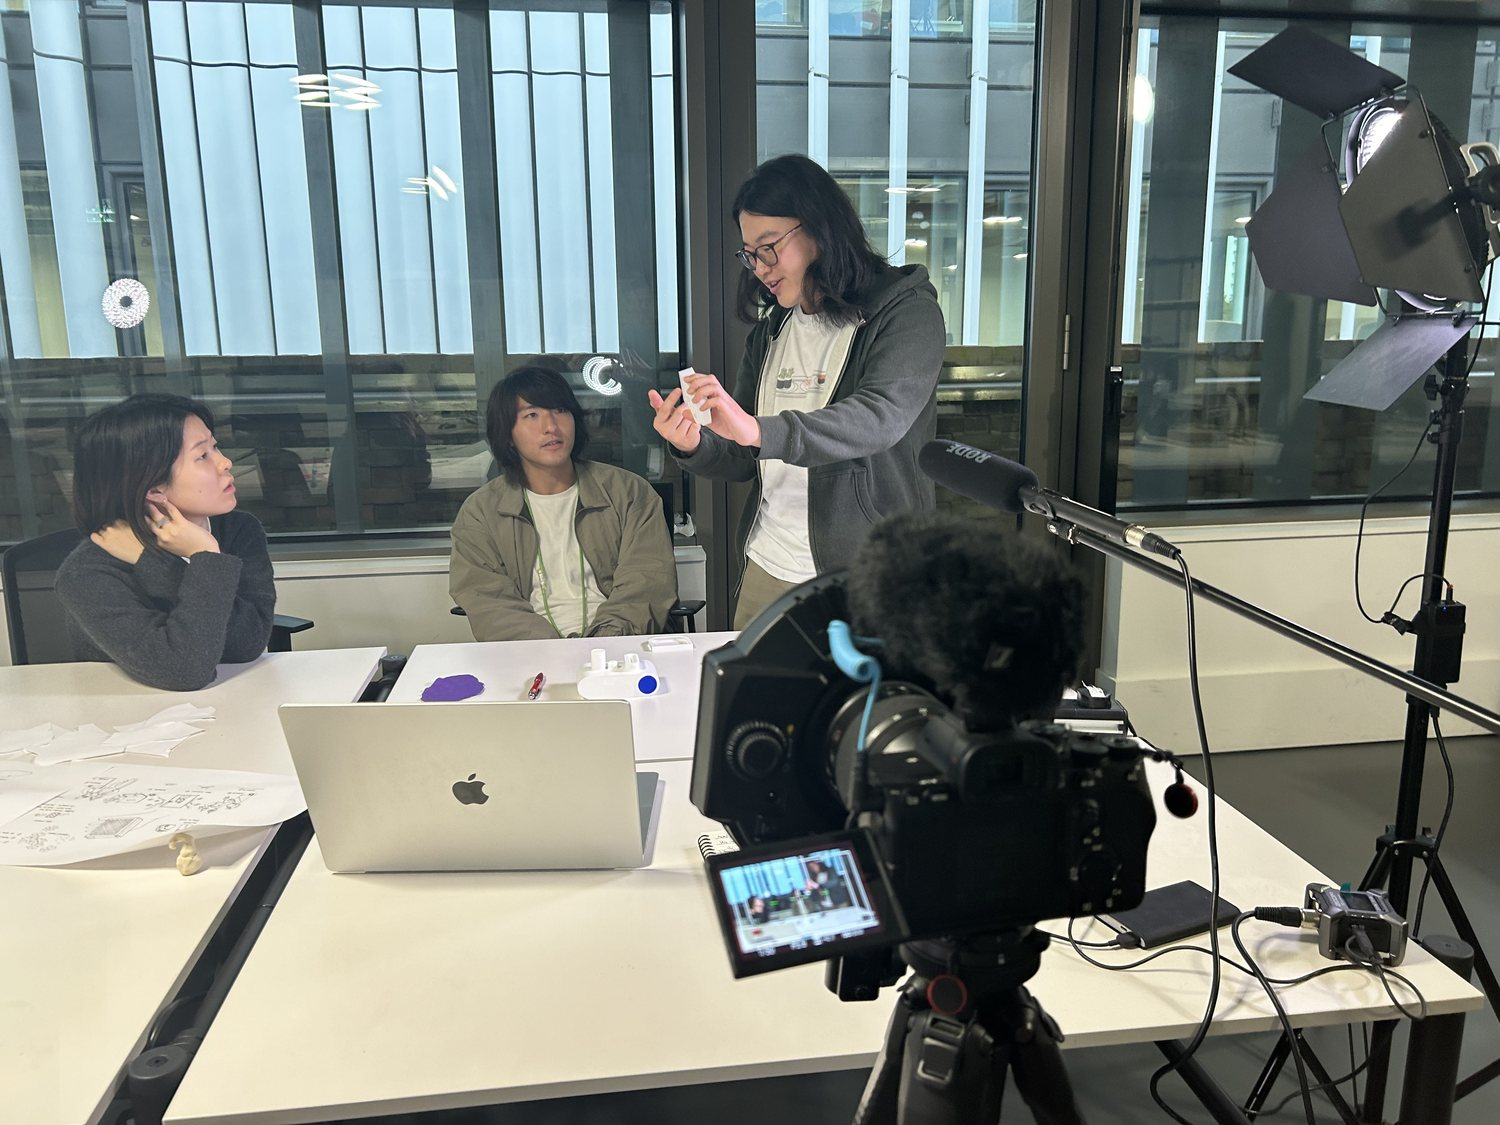
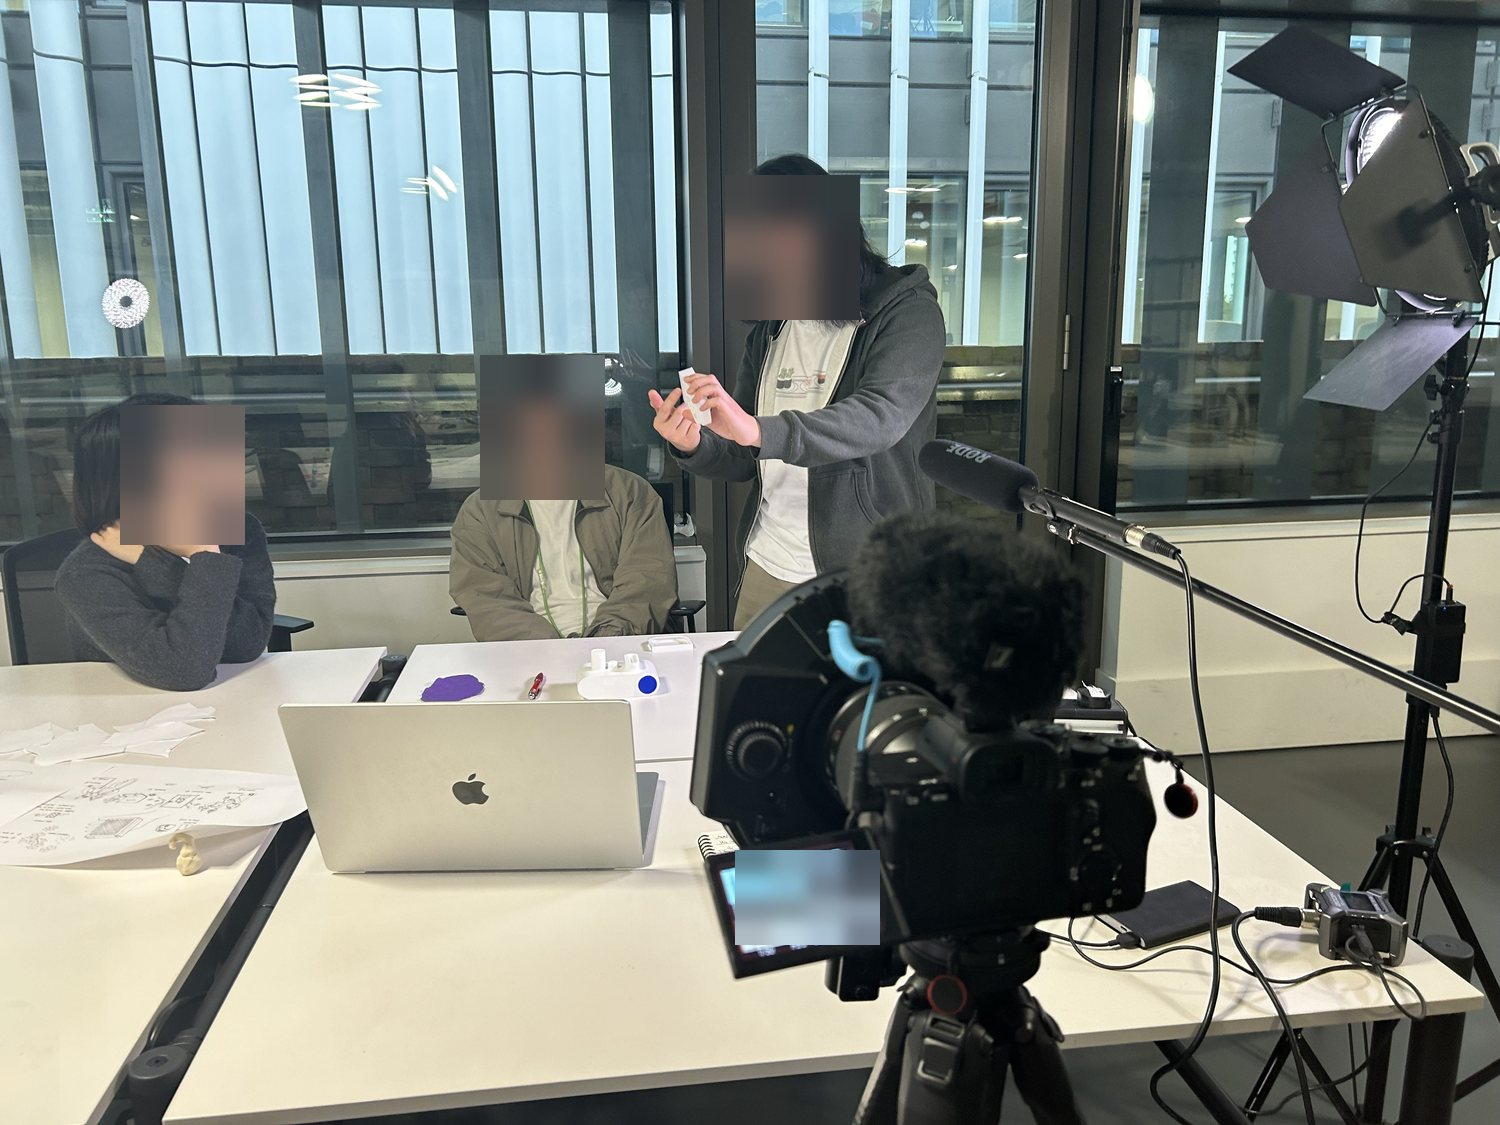
Blur the workshop faces, and keep NFT in the main run
The three participants in the RES workshop photograph are pixelated and
blurred, including the smaller copy of the scene on the camera's own
screen. The caption says so.

NFT comes out of the fold and sits eighth, after Pulpatronics. More work
now holds Entropy, Gesture and Illustrator, and the light and dark
alternation is corrected either side of the fold.

Claude-Session: https://claude.ai/code/session_01A2AqwaHUmSdqfKoAZn74z6

diff --git a/index.html b/index.html
@@ -281,10 +281,25 @@
 </section>
 
 
+<!-- NFT -->
+<section class="project-story section--dark glow-follow">
+  <div class="project-story__inner reveal">
+    <a class="project-card" href="work/nft.html">
+      <div class="project-card__cover"><img class="project-card__cover-img" src="assets/images/nft/mint-cert.jpg" alt="A minted NFT collectible shown on a phone mockup" loading="lazy"></div>
+      <div class="project-card__body">
+        <span class="project-card__meta">2023 · Web3 · Startup</span>
+        <h3 class="project-card__title">NFT</h3>
+        <p class="project-card__desc">A Chinese NFT platform where users can autonomously craft personalised NFT profile pictures and both buy and sell NFTs.</p>
+        <span class="project-card__cta">View case study<svg width="10" height="10" viewBox="0 0 10 10" fill="none"><path d="M1 5H9M9 5L5.5 1.5M9 5L5.5 8.5" stroke="currentColor" stroke-width="1.4" stroke-linecap="round" stroke-linejoin="round"/></svg></span>
+      </div>
+    </a>
+  </div>
+</section>
+
 <details class="more-work" id="more-work">
   <summary class="more-work__summary">
     <span class="more-work__label">More work</span>
-    <span class="more-work__hint">Interactive products, a Web3 platform and illustration<span class="more-work__arrow" aria-hidden="true">&#8595;</span></span>
+    <span class="more-work__hint">Interactive products and illustration<span class="more-work__arrow" aria-hidden="true">&#8595;</span></span>
   </summary>
 <!-- Entropy -->
 <section class="project-story section--light">
@@ -316,23 +331,8 @@
   </div>
 </section>
 
-<!-- NFT -->
-<section class="project-story section--light">
-  <div class="project-story__inner reveal">
-    <a class="project-card" href="work/nft.html">
-      <div class="project-card__cover"><img class="project-card__cover-img" src="assets/images/nft/mint-cert.jpg" alt="A minted NFT collectible shown on a phone mockup" loading="lazy"></div>
-      <div class="project-card__body">
-        <span class="project-card__meta">2023 · Web3 · Startup</span>
-        <h3 class="project-card__title">NFT</h3>
-        <p class="project-card__desc">A Chinese NFT platform where users can autonomously craft personalised NFT profile pictures and both buy and sell NFTs.</p>
-        <span class="project-card__cta">View case study<svg width="10" height="10" viewBox="0 0 10 10" fill="none"><path d="M1 5H9M9 5L5.5 1.5M9 5L5.5 8.5" stroke="currentColor" stroke-width="1.4" stroke-linecap="round" stroke-linejoin="round"/></svg></span>
-      </div>
-    </a>
-  </div>
-</section>
-
 <!-- Illustrator -->
-<section class="project-story section--dark glow-follow">
+<section class="project-story section--light">
   <div class="project-story__inner reveal">
     <a class="project-card" href="work/illustrator.html">
       <div class="project-card__cover"><img class="project-card__cover-img" src="assets/images/illustrator/commission-2024-character.jpg" alt="Fantasy-style illustration of a character holding a small glowing white rabbit" loading="lazy"></div>

diff --git a/work/res.html b/work/res.html
@@ -106,7 +106,7 @@
 
     <figure class="figure">
       <img src="../assets/images/res/workshop-session.jpg" alt="The workshop being filmed: two participants at a table covered in sketches and torn paper cards, with a facilitator standing and holding a white prototype of the RES sensor, a camera and boom microphone set up in front of them" loading="lazy">
-      <figcaption>The session, recorded so we could go back to the reasoning rather than only the ranking.</figcaption>
+      <figcaption>The session, recorded so we could go back to the reasoning and not only the ranking. Faces are blurred at the participants&#8217; request.</figcaption>
     </figure>
 
     <p>Five came out on top, in this order:</p>
